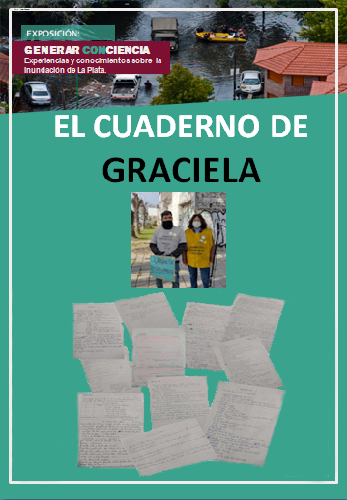
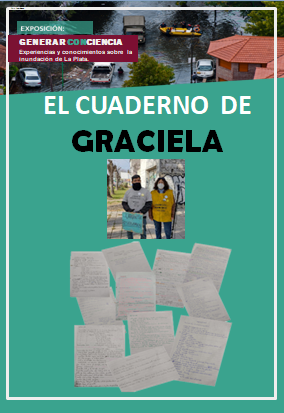
estuve arreglando la ortografia de la desccripcion de album de fotos y agregando el tabindex, pero falto colocar la tapa de un album y mejorar el tamaño de la tapa de el cuaderno de graciela que esta chiquito

diff --git a/templates/photo-album.html b/templates/photo-album.html
@@ -10,17 +10,17 @@
             Álbum de fotos
           </h1>
         </div>
-        <div class="centrar-texto">
+        <div tabindex="0" class="centrar-texto">
           <p>
             Las personas entrevistadas compartieron fotos sobre la tragedia del
             2 de abril. Algunas no tuvieron registro fotográfico, porque era tal
-            la desesperaciópn del momento que no podían sacar fotos. Otras
-            personas directamente no querían buscar las fotos porque no podían
+            la desesperación del momento que no podían sacar fotos. Otras
+            personas, directamente no querían buscar las fotos, porque no podían
             volverlas a ver otra vez, directamente no pudieron. Les agradecemos
             mucho a todas, porque sabemos el dolor que implica volver a
             observarlas y a quienes aún no pueden, lo entendemos profundamente.
           </p>
-          <p>Tambien se dispone del cuaderno de graciela quien anotó desde el 2013 los avances de las obras hidraulicas de la cuidad de La Plata y alrededores.</p>
+          <p>También se dispone del cuaderno de Graciela, quien anotó desde el 2013 los avances de las obras hidráulicas de la ciudad de La Plata y alrededores.</p>
           <p>
             Seleccione cualquiera de los 5 álbumnes y luego toque la foto del
             álbum para entrar dentro de la galería de fotos y sus explicaciones.
